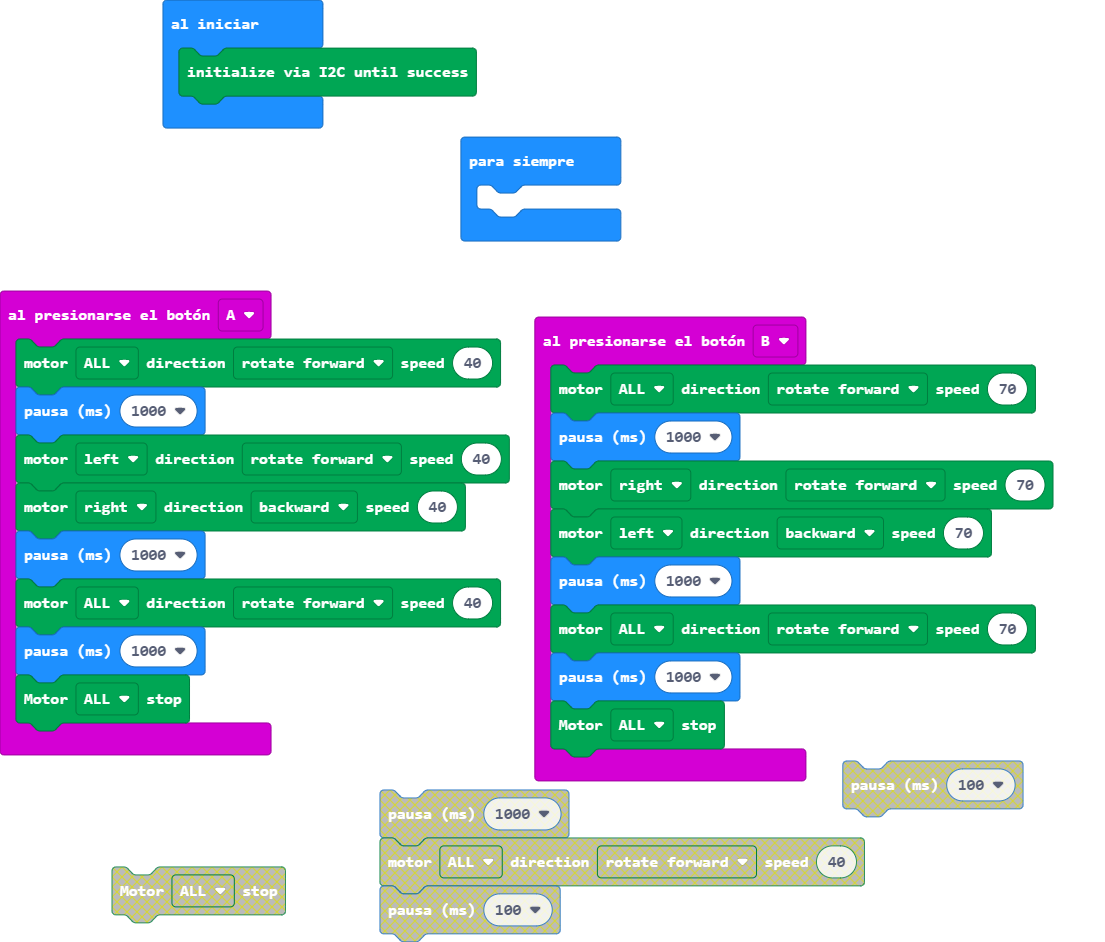
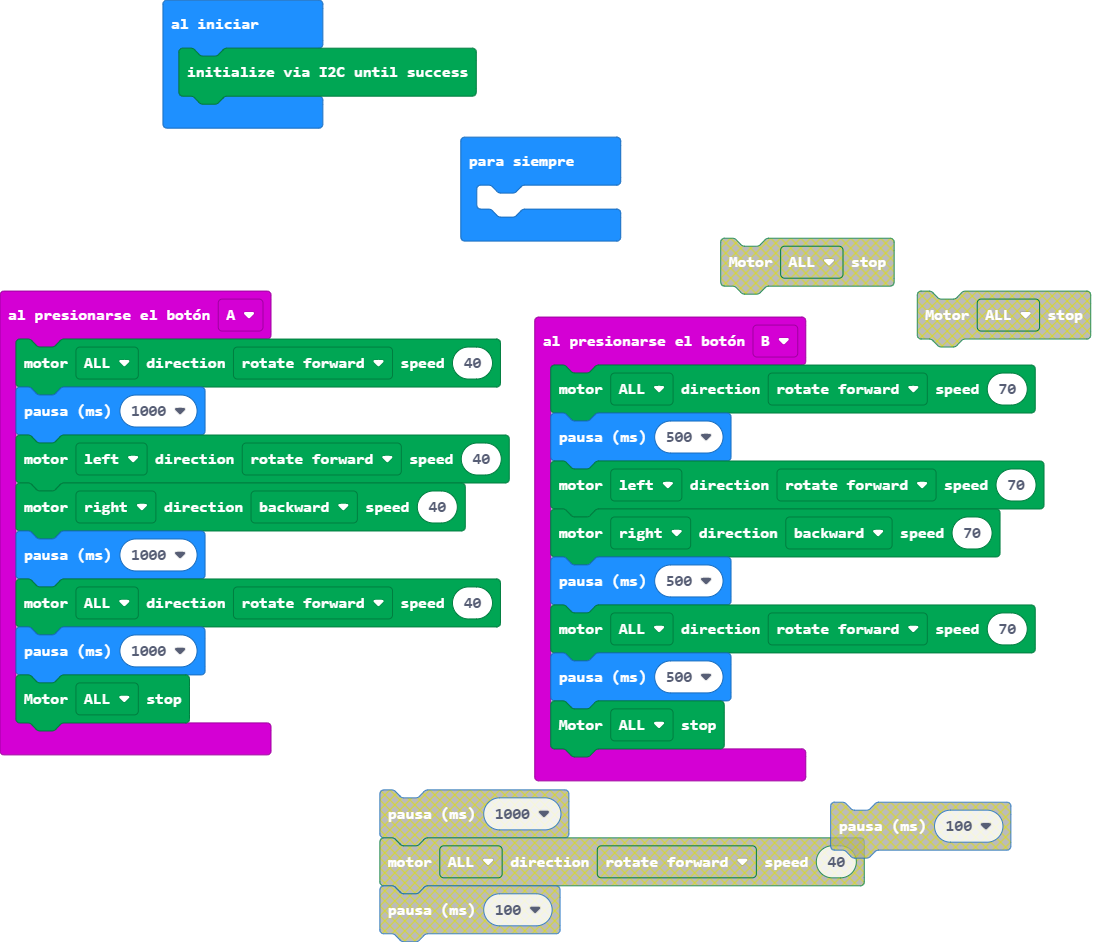
Actualizar main.blocks, main.ts

diff --git a/main.ts b/main.ts
@@ -10,12 +10,12 @@ input.onButtonPressed(Button.A, function () {
 })
 input.onButtonPressed(Button.B, function () {
     DFRobotMaqueenPlus.mototRun(Motors.ALL, Dir.CW, 70)
-    basic.pause(1000)
-    DFRobotMaqueenPlus.mototRun(Motors.M2, Dir.CW, 70)
-    DFRobotMaqueenPlus.mototRun(Motors.M1, Dir.CCW, 70)
-    basic.pause(1000)
+    basic.pause(500)
+    DFRobotMaqueenPlus.mototRun(Motors.M1, Dir.CW, 70)
+    DFRobotMaqueenPlus.mototRun(Motors.M2, Dir.CCW, 70)
+    basic.pause(500)
     DFRobotMaqueenPlus.mototRun(Motors.ALL, Dir.CW, 70)
-    basic.pause(1000)
+    basic.pause(500)
     DFRobotMaqueenPlus.mototStop(Motors.ALL)
 })
 DFRobotMaqueenPlus.I2CInit()
